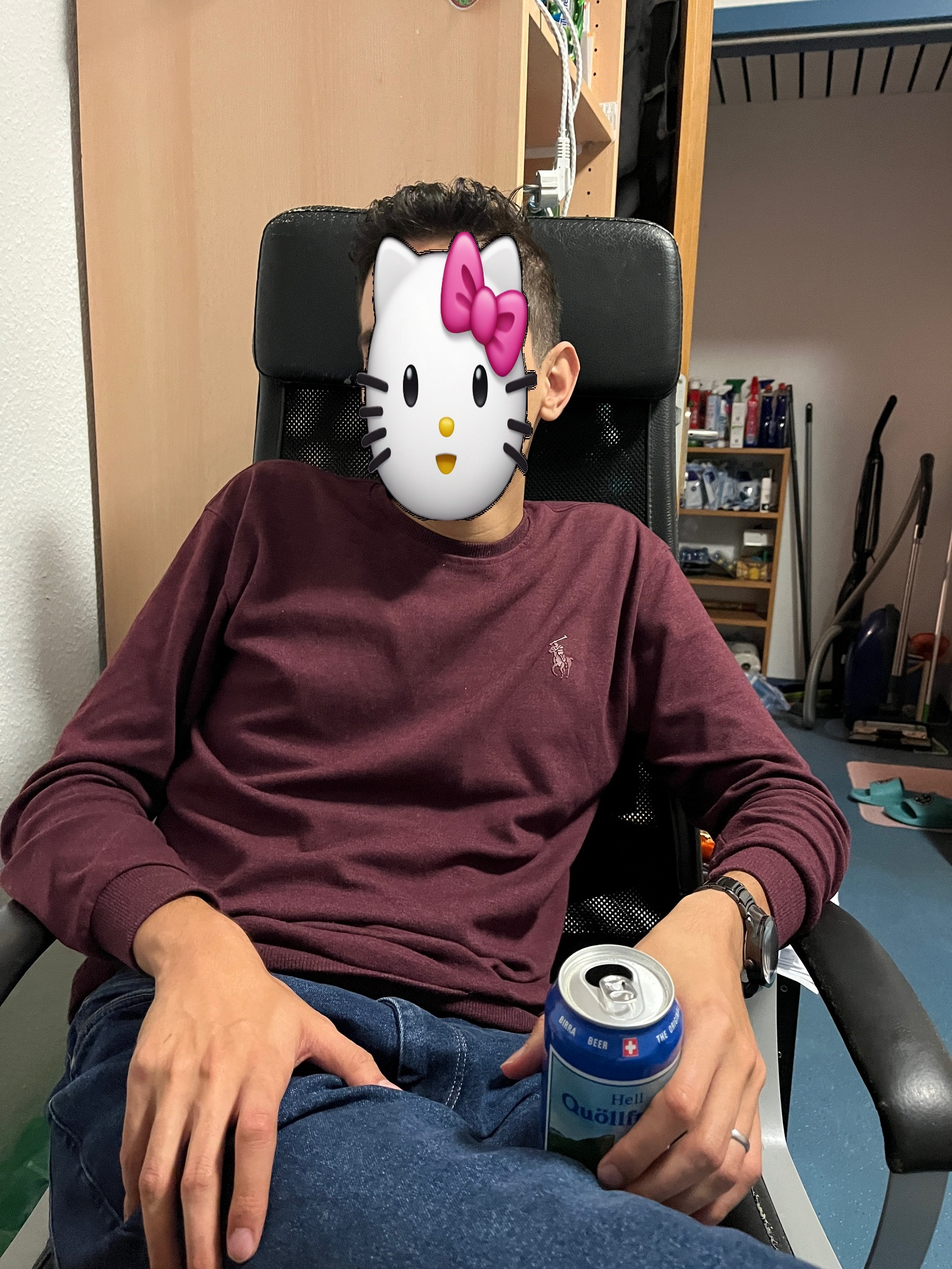
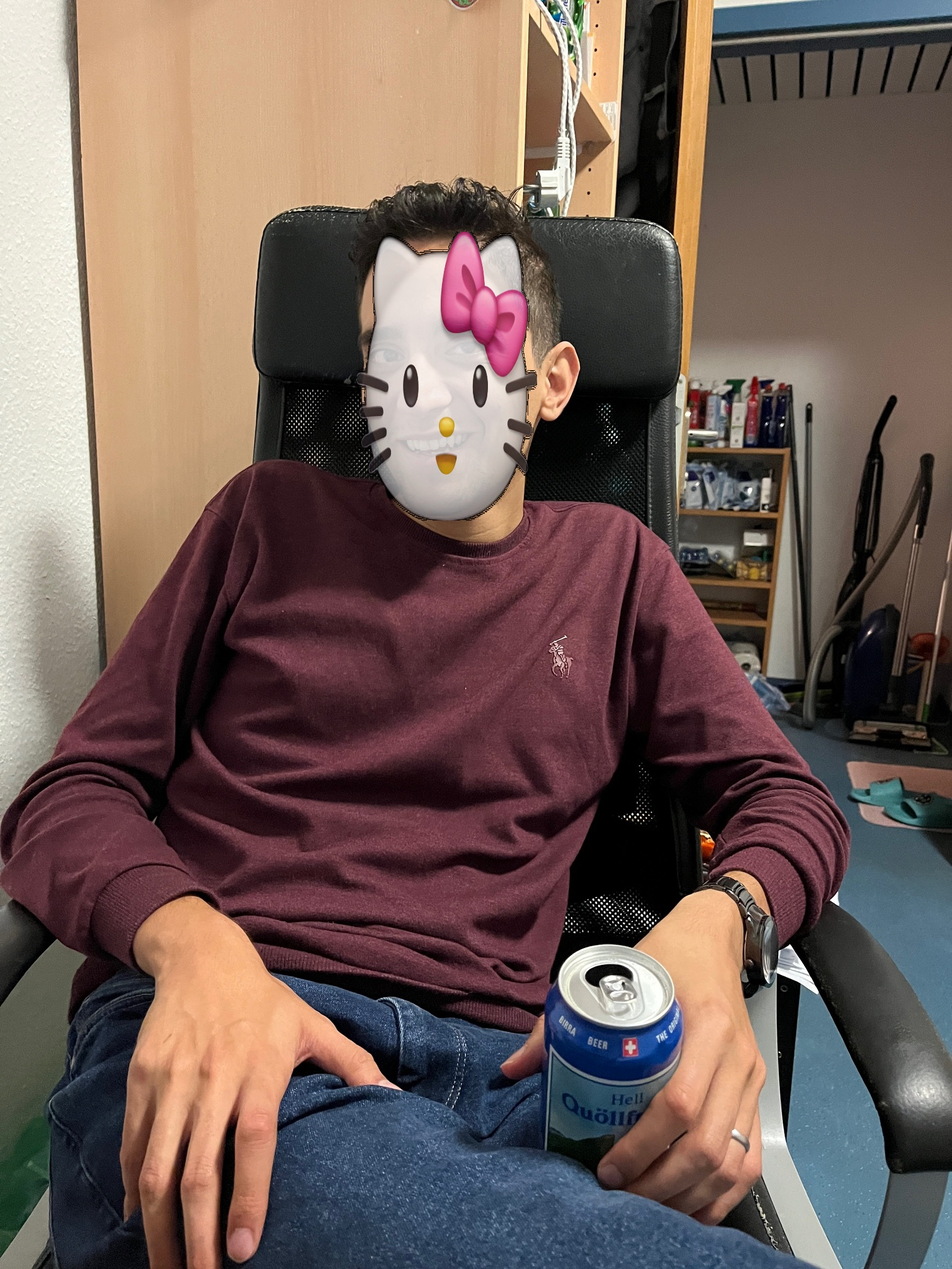
added npp for postprocessing

Changed region(s): [[0.373, 0.1875, 0.5595, 0.4062]]

diff --git a/src/main.cpp b/src/main.cpp
@@ -299,6 +299,97 @@ void replaceWithEmojiInPostProcess(cv::Mat &image, const std::vector<cv::Rect> &
     std::cout << "Output image with emojis saved as 'output_with_emojis.jpg'." << std::endl;
 }
 
+// Function to replace bounding boxes with emoji image using NPP for resizing and applying blending
+void replaceWithEmojiInPostProcessNPP(cv::Mat &image, const std::vector<cv::Rect> &boxes, const std::string &emojiPath, float blendRatio)
+{
+    // Load the emoji image
+    cv::Mat emoji = cv::imread(emojiPath, cv::IMREAD_UNCHANGED); // Load with alpha channel if available
+    if (emoji.empty())
+    {
+        std::cerr << "Error: Could not load emoji image!" << std::endl;
+        return;
+    }
+
+    // Check that the emoji has 4 channels (RGBA), otherwise add alpha channel
+    if (emoji.channels() == 3)
+    {
+        cv::cvtColor(emoji, emoji, cv::COLOR_BGR2BGRA);
+    }
+
+    // Ensure blendRatio is within valid range (0.0 to 1.0)
+    blendRatio = std::clamp(blendRatio, 0.0f, 1.0f);
+
+    // Replace each bounding box with the emoji using NPP for resizing
+    for (const auto &box : boxes)
+    {
+        std::cout << "Scaled Bounding Box: [x=" << box.x << ", y=" << box.y
+                  << ", width=" << box.width << ", height=" << box.height << "]" << std::endl;
+
+        // Resize the emoji to fit the bounding box using NPP
+        NppiSize srcSize = {emoji.cols, emoji.rows};
+        NppiSize dstSize = {box.width, box.height};
+
+        // Define steps (strides), which are the number of bytes per row
+        int srcStep = emoji.step;
+        int dstStep = box.width * 4; // 4 channels (RGBA)
+
+        // Allocate memory on the GPU for the source and destination
+        Npp8u *d_src = nullptr, *d_dst = nullptr;
+        cudaMalloc(&d_src, emoji.total() * emoji.elemSize());
+        cudaMalloc(&d_dst, dstStep * box.height);
+
+        // Copy the emoji to the device
+        cudaMemcpy(d_src, emoji.data, emoji.total() * emoji.elemSize(), cudaMemcpyHostToDevice);
+
+        // Perform NPP-based resizing
+        NppStatus status = nppiResize_8u_C4R(d_src, srcStep, srcSize, {0, 0, srcSize.width, srcSize.height}, d_dst, dstStep, dstSize, {0, 0, dstSize.width, dstSize.height}, NPPI_INTER_LINEAR);
+
+        if (status != NPP_SUCCESS)
+        {
+            std::cerr << "Error: NPP resize failed with error code: " << status << std::endl;
+            cudaFree(d_src);
+            cudaFree(d_dst);
+            return;
+        }
+
+        // Copy resized emoji back to the host
+        cv::Mat resized_emoji(box.height, box.width, CV_8UC4);
+        cudaMemcpy(resized_emoji.data, d_dst, dstStep * box.height, cudaMemcpyDeviceToHost);
+
+        // Ensure the emoji fits inside the image
+        if (box.x >= 0 && box.y >= 0 && (box.x + box.width <= image.cols) && (box.y + box.height <= image.rows))
+        {
+            // Region of interest (ROI) in the original image
+            cv::Mat roi = image(box);
+
+            // Handle transparency by blending the emoji with the ROI
+            for (int y = 0; y < resized_emoji.rows; ++y)
+            {
+                for (int x = 0; x < resized_emoji.cols; ++x)
+                {
+                    cv::Vec4b &emoji_pixel = resized_emoji.at<cv::Vec4b>(y, x);
+                    if (emoji_pixel[3] > 0) // If alpha > 0, blend pixel
+                    {
+                        cv::Vec3b &roi_pixel = roi.at<cv::Vec3b>(y, x);
+                        roi_pixel = cv::Vec3b(
+                            static_cast<uchar>(roi_pixel[0] * (1 - blendRatio) + emoji_pixel[0] * blendRatio),
+                            static_cast<uchar>(roi_pixel[1] * (1 - blendRatio) + emoji_pixel[1] * blendRatio),
+                            static_cast<uchar>(roi_pixel[2] * (1 - blendRatio) + emoji_pixel[2] * blendRatio));
+                    }
+                }
+            }
+        }
+
+        // Free GPU memory
+        cudaFree(d_src);
+        cudaFree(d_dst);
+    }
+
+    // Save the output image with emojis
+    cv::imwrite("output_with_emojis.jpg", image);
+    std::cout << "Output image with emojis saved as 'output_with_emojis.jpg'." << std::endl;
+}
+
 // Run inference using YOLOv5 model
 std::vector<cv::Rect> runInference(const std::string &yolov5ModelPath, const std::string &imagePath, float conf_thres, float iou_thres, std::vector<int> &classIds, int &imgWidth, int &imgHeight)
 {
@@ -354,14 +445,15 @@ std::vector<cv::Rect> runInference(const std::string &yolov5ModelPath, const std
 
 int main(int argc, char *argv[])
 {
-    if (argc < 6)
+    if (argc < 7)
     {
-        std::cerr << "Usage: " << argv[0] << " <yolov5_model.onnx> <image> <conf_thres> <iou_thres> <emoji.jpg>" << std::endl;
+        std::cerr << "Usage: " << argv[0] << " <yolov5_model.onnx> <image> <conf_thres> <iou_thres> <emoji.jpg> <blend_ratio>" << std::endl;
         return -1;
     }
 
     float conf_thres = std::stof(argv[3]);
     float iou_thres = std::stof(argv[4]);
+    float blend_ratio = std::stof(argv[6]);
 
     // Load the image
     cv::Mat image = cv::imread(argv[2]);
@@ -377,8 +469,8 @@ int main(int argc, char *argv[])
     int imgHeight = image.rows;
     std::vector<cv::Rect> scaled_boxes = runInference(argv[1], argv[2], conf_thres, iou_thres, classIds, imgWidth, imgHeight);
 
-    // Replace detected bounding boxes with the emoji image
-    replaceWithEmojiInPostProcess(image, scaled_boxes, argv[5]);
+    // Replace detected bounding boxes with the emoji image, using the blend ratio
+    replaceWithEmojiInPostProcessNPP(image, scaled_boxes, argv[5], blend_ratio);
 
     return 0;
 }
